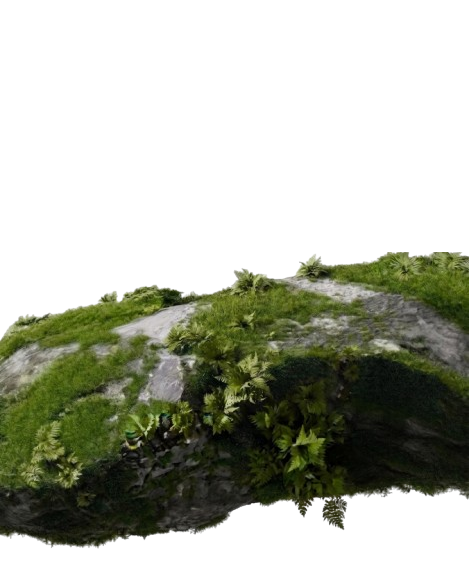
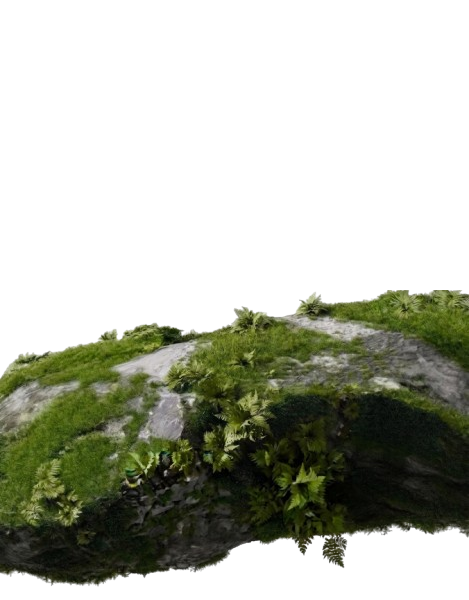
Updated UI design

Changed region(s): [[0.0, 0.4235, 1.0, 0.968], [0.0, 0.9075, 0.5075, 0.9982], [0.8657, 0.726, 0.9254, 0.8167]]

diff --git a/src/components/hero.module.css b/src/components/hero.module.css
@@ -234,7 +234,7 @@
     max-width: 100%;
     padding-inline: 0.35rem;
     font-size: clamp(2.4rem, 14vw, 4.8rem);
-    margin-top: 1.15rem;
+    margin-top: 2.75rem;
     white-space: normal;
     overflow: visible;
   }